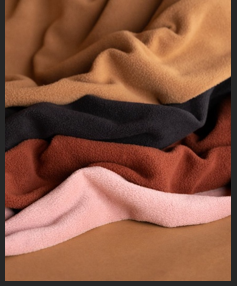
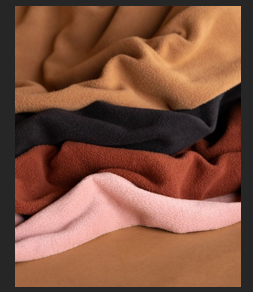
Update service card images and add Pre-Shipment Inspection subpage content

diff --git a/service-detail.html b/service-detail.html
@@ -896,6 +896,210 @@
           </div>
         </div>
       `;
+    } else if (mainContentEl && (s.id === 's13' || s.name.toLowerCase().includes('pre-shipment'))) {
+      mainContentEl.className = 'w-full';
+      mainContentEl.innerHTML = `
+        <div class="space-y-8 text-left w-full max-w-5xl mx-auto">
+          
+          <!-- 01: HERO BANNER SECTION -->
+          <div class="grid grid-cols-1 lg:grid-cols-12 gap-8 items-center bg-[#0d1b2a] text-white p-6 sm:p-8 rounded-2xl border border-[#1b263b] shadow-sm">
+            <div class="lg:col-span-7 space-y-3.5">
+              <span class="inline-block text-[11px] font-semibold tracking-wider text-[#38bdf8] uppercase">
+                01 • Final Export Quality Assurance
+              </span>
+              <h1 class="text-2xl sm:text-3xl lg:text-4xl font-bold text-white tracking-tight leading-snug">
+                Pre-Shipment Inspection
+              </h1>
+              <h2 class="text-base sm:text-lg font-semibold text-blue-400">
+                The Final Quality Check Before Your Goods Leave the Factory
+              </h2>
+              <div class="space-y-2.5 text-xs sm:text-sm text-slate-300 leading-relaxed font-normal text-justify" style="text-align: justify; text-justify: inter-word;">
+                <p>
+                  Before your apparel shipment leaves the factory, Zasha.AIS conducts an independent inspection of finished goods to assess product quality, workmanship, appearance, function, packaging, quantity, and other agreed requirements.
+                </p>
+                <p>
+                  Our inspection combines random sampling, AQL-based quality assessment, defect identification, measurement and product checks, packaging verification, physical checks, and photographic documentation to provide buyers with a clear view of the shipment condition before dispatch.
+                </p>
+              </div>
+              <div class="pt-2 flex flex-wrap items-center gap-3">
+                <a href="login.html?service=Pre-Shipment%20Inspection" class="px-5 py-2.5 rounded-lg bg-[#2563eb] hover:bg-[#1d4ed8] text-white font-medium text-xs sm:text-sm tracking-wide transition shadow-sm">
+                  Book an Inspection
+                </a>
+                <a href="https://wa.me/923151467673?text=Hello%20Zasha.AIS,%20I%20need%20Pre-Shipment%20Inspection%20(PSI)%20details." target="_blank" class="px-4 py-2.5 rounded-lg bg-emerald-600/20 hover:bg-emerald-600/30 text-emerald-400 border border-emerald-500/40 font-medium text-xs sm:text-sm transition flex items-center gap-2">
+                  <span>Request Inspection Details</span>
+                </a>
+              </div>
+            </div>
+
+            <!-- Inspector Image -->
+            <div class="lg:col-span-5">
+              <div class="relative rounded-xl overflow-hidden shadow-lg border border-[#25364f] bg-slate-900 aspect-[4/3] group">
+                <img 
+                  src="assets/images/service-pre-shipment.png" 
+                  alt="Pre-shipment apparel inspection and export verification in Pakistan" 
+                  class="w-full h-full object-cover group-hover:scale-105 transition-transform duration-300"
+                  loading="lazy"
+                />
+                <div class="absolute inset-0 bg-gradient-to-t from-[#09121d]/85 via-transparent to-transparent flex items-end p-3 text-xs text-slate-300 font-medium">
+                  Pre-shipment finished garment verification & AQL 2.5 audit
+                </div>
+              </div>
+            </div>
+          </div>
+
+          <!-- SECTION 02: WHAT IS PRE-SHIPMENT INSPECTION? -->
+          <div class="bg-white rounded-2xl border border-slate-200 p-6 sm:p-10 shadow-sm space-y-6">
+            <div class="border-b border-slate-100 pb-4">
+              <span class="text-xs font-mono-code font-bold tracking-wider text-[#2563eb] uppercase">SECTION 02</span>
+              <h2 class="font-display text-2xl sm:text-3xl font-bold text-slate-900 mt-1">
+                What Is Pre-Shipment Inspection?
+              </h2>
+              <p class="text-base sm:text-lg font-semibold text-slate-700 mt-1">
+                A Final Check Before Shipment
+              </p>
+            </div>
+
+            <div class="grid grid-cols-1 lg:grid-cols-12 gap-8 items-center">
+              <div class="lg:col-span-7 space-y-4 text-sm sm:text-base text-slate-600 leading-relaxed font-normal text-justify" style="text-align: justify; text-justify: inter-word;">
+                <p>
+                  Pre-Shipment Inspection (PSI) is a final quality-control inspection carried out on finished goods before shipment.
+                </p>
+                <p>
+                  At Zasha.AIS, we inspect selected samples from the available production and compare them with the relevant reference information, such as the approved sample, product specifications, purchase order, and buyer requirements.
+                </p>
+                <p>
+                  The inspection is designed to identify quality issues, workmanship defects, appearance problems, packaging concerns, and other non-conformities before the goods leave the factory.
+                </p>
+                <p>
+                  Our inspection reports provide documented findings, inspection results, remarks, and photographic evidence to give buyers clear visibility of the inspected shipment.
+                </p>
+                <div class="p-3.5 bg-blue-50/80 rounded-xl border border-blue-200/80 text-xs sm:text-sm text-slate-800 font-medium">
+                  <span class="font-bold text-[#2563eb]">Reference Data:</span> Your actual reports use approved samples, product specifications and copies of the PO as reference data.
+                </div>
+              </div>
+              <div class="lg:col-span-5">
+                <div class="relative rounded-xl overflow-hidden shadow-md border border-slate-200 bg-slate-100 aspect-[4/3] group">
+                  <img 
+                    src="assets/images/service-final-random.png" 
+                    alt="Final random quality inspection on finished packed goods" 
+                    class="w-full h-full object-cover group-hover:scale-105 transition-transform duration-300"
+                    loading="lazy"
+                  />
+                  <div class="absolute inset-0 bg-gradient-to-t from-slate-950/70 via-transparent to-transparent flex items-end p-3 text-xs text-white font-medium">
+                    Finished goods reference comparison against approved samples
+                  </div>
+                </div>
+              </div>
+            </div>
+          </div>
+
+          <!-- SECTION 03: WHY IS PRE-SHIPMENT INSPECTION IMPORTANT? -->
+          <div class="bg-white rounded-2xl border border-slate-200 p-6 sm:p-10 shadow-sm space-y-6">
+            <div class="border-b border-slate-100 pb-4">
+              <span class="text-xs font-mono-code font-bold tracking-wider text-[#2563eb] uppercase">SECTION 03</span>
+              <h2 class="font-display text-2xl sm:text-3xl font-bold text-slate-900 mt-1">
+                Why Is Pre-Shipment Inspection Important?
+              </h2>
+              <p class="text-base sm:text-lg font-semibold text-slate-700 mt-1">
+                Know the Condition of Your Shipment Before Dispatch
+              </p>
+              <p class="text-sm sm:text-base text-slate-600 mt-2 text-justify" style="text-align: justify; text-justify: inter-word;">
+                Finished garments can contain defects or inconsistencies that may not be identified through production completion alone. A comprehensive final inspection identifies and documents critical, major, and minor non-conformities before goods depart:
+              </p>
+            </div>
+
+            <div class="grid grid-cols-1 lg:grid-cols-12 gap-8 items-start">
+              <!-- 14 Defect Points Grid -->
+              <div class="lg:col-span-7 space-y-3">
+                <h3 class="text-xs font-mono-code font-bold uppercase tracking-wider text-slate-500 mb-2">Non-Conformities & Defects Identified</h3>
+                <div class="grid grid-cols-1 sm:grid-cols-2 gap-2.5">
+                  <div class="flex items-center gap-2.5 p-2.5 rounded-xl bg-red-50/70 border border-red-200/80 text-slate-800 text-xs sm:text-sm font-semibold">
+                    <span class="w-5 h-5 rounded-full bg-red-500 text-white flex items-center justify-center text-xs font-black shrink-0">!</span>
+                    <span>Stitching defects</span>
+                  </div>
+                  <div class="flex items-center gap-2.5 p-2.5 rounded-xl bg-red-50/70 border border-red-200/80 text-slate-800 text-xs sm:text-sm font-semibold">
+                    <span class="w-5 h-5 rounded-full bg-red-500 text-white flex items-center justify-center text-xs font-black shrink-0">!</span>
+                    <span>Fabric holes</span>
+                  </div>
+                  <div class="flex items-center gap-2.5 p-2.5 rounded-xl bg-red-50/70 border border-red-200/80 text-slate-800 text-xs sm:text-sm font-semibold">
+                    <span class="w-5 h-5 rounded-full bg-red-500 text-white flex items-center justify-center text-xs font-black shrink-0">!</span>
+                    <span>Uncut threads</span>
+                  </div>
+                  <div class="flex items-center gap-2.5 p-2.5 rounded-xl bg-red-50/70 border border-red-200/80 text-slate-800 text-xs sm:text-sm font-semibold">
+                    <span class="w-5 h-5 rounded-full bg-red-500 text-white flex items-center justify-center text-xs font-black shrink-0">!</span>
+                    <span>Stains</span>
+                  </div>
+                  <div class="flex items-center gap-2.5 p-2.5 rounded-xl bg-red-50/70 border border-red-200/80 text-slate-800 text-xs sm:text-sm font-semibold">
+                    <span class="w-5 h-5 rounded-full bg-red-500 text-white flex items-center justify-center text-xs font-black shrink-0">!</span>
+                    <span>Print damage</span>
+                  </div>
+                  <div class="flex items-center gap-2.5 p-2.5 rounded-xl bg-red-50/70 border border-red-200/80 text-slate-800 text-xs sm:text-sm font-semibold">
+                    <span class="w-5 h-5 rounded-full bg-red-500 text-white flex items-center justify-center text-xs font-black shrink-0">!</span>
+                    <span>Unsecured prints</span>
+                  </div>
+                  <div class="flex items-center gap-2.5 p-2.5 rounded-xl bg-red-50/70 border border-red-200/80 text-slate-800 text-xs sm:text-sm font-semibold">
+                    <span class="w-5 h-5 rounded-full bg-red-500 text-white flex items-center justify-center text-xs font-black shrink-0">!</span>
+                    <span>Broken stitches</span>
+                  </div>
+                  <div class="flex items-center gap-2.5 p-2.5 rounded-xl bg-red-50/70 border border-red-200/80 text-slate-800 text-xs sm:text-sm font-semibold">
+                    <span class="w-5 h-5 rounded-full bg-red-500 text-white flex items-center justify-center text-xs font-black shrink-0">!</span>
+                    <span>Color stains</span>
+                  </div>
+                  <div class="flex items-center gap-2.5 p-2.5 rounded-xl bg-red-50/70 border border-red-200/80 text-slate-800 text-xs sm:text-sm font-semibold">
+                    <span class="w-5 h-5 rounded-full bg-red-500 text-white flex items-center justify-center text-xs font-black shrink-0">!</span>
+                    <span>Fly yarn</span>
+                  </div>
+                  <div class="flex items-center gap-2.5 p-2.5 rounded-xl bg-red-50/70 border border-red-200/80 text-slate-800 text-xs sm:text-sm font-semibold">
+                    <span class="w-5 h-5 rounded-full bg-red-500 text-white flex items-center justify-center text-xs font-black shrink-0">!</span>
+                    <span>Needle cuts</span>
+                  </div>
+                  <div class="flex items-center gap-2.5 p-2.5 rounded-xl bg-red-50/70 border border-red-200/80 text-slate-800 text-xs sm:text-sm font-semibold">
+                    <span class="w-5 h-5 rounded-full bg-red-500 text-white flex items-center justify-center text-xs font-black shrink-0">!</span>
+                    <span>Appearance issues</span>
+                  </div>
+                  <div class="flex items-center gap-2.5 p-2.5 rounded-xl bg-red-50/70 border border-red-200/80 text-slate-800 text-xs sm:text-sm font-semibold">
+                    <span class="w-5 h-5 rounded-full bg-red-500 text-white flex items-center justify-center text-xs font-black shrink-0">!</span>
+                    <span>Measurement deviations</span>
+                  </div>
+                  <div class="flex items-center gap-2.5 p-2.5 rounded-xl bg-red-50/70 border border-red-200/80 text-slate-800 text-xs sm:text-sm font-semibold">
+                    <span class="w-5 h-5 rounded-full bg-red-500 text-white flex items-center justify-center text-xs font-black shrink-0">!</span>
+                    <span>Packaging issues</span>
+                  </div>
+                  <div class="flex items-center gap-2.5 p-2.5 rounded-xl bg-red-50/70 border border-red-200/80 text-slate-800 text-xs sm:text-sm font-semibold">
+                    <span class="w-5 h-5 rounded-full bg-red-500 text-white flex items-center justify-center text-xs font-black shrink-0">!</span>
+                    <span>Carton or shipment discrepancies</span>
+                  </div>
+                </div>
+              </div>
+
+              <!-- Visual Card -->
+              <div class="lg:col-span-5 flex flex-col items-center">
+                <div class="relative rounded-xl overflow-hidden shadow-md border border-slate-200 bg-slate-100 w-full max-w-sm group">
+                  <img 
+                    src="assets/images/service-sample-picking.png" 
+                    alt="Statistical random sample picking and defect assessment" 
+                    class="w-full h-auto object-cover group-hover:scale-105 transition-transform duration-300"
+                    loading="lazy"
+                  />
+                  <div class="absolute inset-0 bg-gradient-to-t from-slate-950/75 via-transparent to-transparent flex items-end p-3 text-xs text-white font-medium">
+                    AQL Sampling • Defect Identification • 24h Inspection Report
+                  </div>
+                </div>
+              </div>
+            </div>
+          </div>
+
+          <!-- BOTTOM ACTION BAR -->
+          <div class="pt-4 flex flex-wrap items-center justify-between gap-4 border-t border-slate-200">
+            <a href="index.html#services" class="inline-flex items-center gap-2 px-6 py-3 rounded-lg border border-slate-300 text-slate-700 hover:bg-slate-100 font-bold text-sm transition">
+              ← Back to Our Services
+            </a>
+            <a href="login.html?service=Pre-Shipment%20Inspection" class="px-8 py-3.5 rounded-lg bg-[#2563eb] hover:bg-[#1d4ed8] text-white font-bold text-sm sm:text-base tracking-wide transition shadow-md">
+              Book Pre-Shipment Inspection
+            </a>
+          </div>
+        </div>
+      `;
     } else if (mainContentEl) {
       mainContentEl.className = 'bg-white rounded-2xl border border-slate-200 p-8 sm:p-14 shadow-sm min-h-[420px] flex flex-col items-center justify-center text-center';
       mainContentEl.innerHTML = `

diff --git a/index.html b/index.html
@@ -1170,7 +1170,7 @@
         {
           id: 's06',
           name: 'Sampling & Testing',
-          image: 'assets/images/service-10.jpg',
+          image: 'assets/images/service-sampling-and-testing.png',
           stageLabel: 'Pre-Production',
           desc: 'Pre-production samples verified against buyer specs.',
           details: 'Dimensional fit evaluation, seam elongation, shrinkage washing tests, and color fastness rubbing crockmeter checks on development samples.'
@@ -1254,7 +1254,7 @@
         {
           id: 's16',
           name: 'Container Loading Check',
-          image: 'assets/images/service-06.jpg',
+          image: 'assets/images/service-container-loading.png',
           stageLabel: 'Pre-Shipment & Final',
           desc: 'Loading count, container integrity, carton drop test, and seal check.',
           details: 'On-site verification during container stuffing: inspection of dry container cleanliness, cargo stowing security, and container customs seal affixation.'
